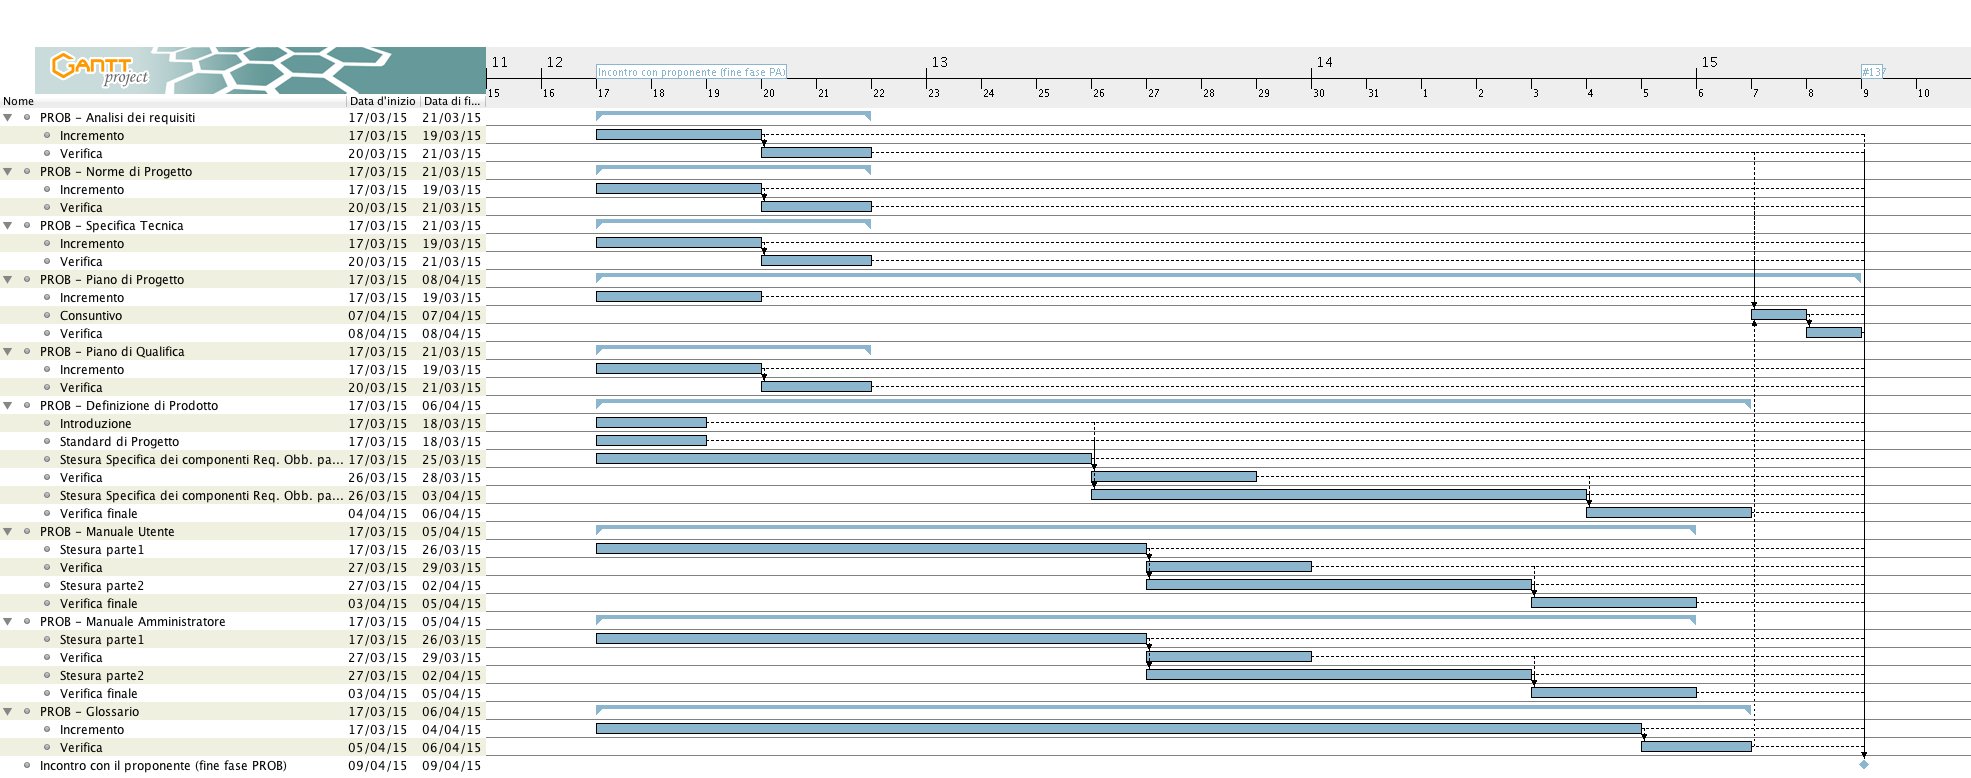
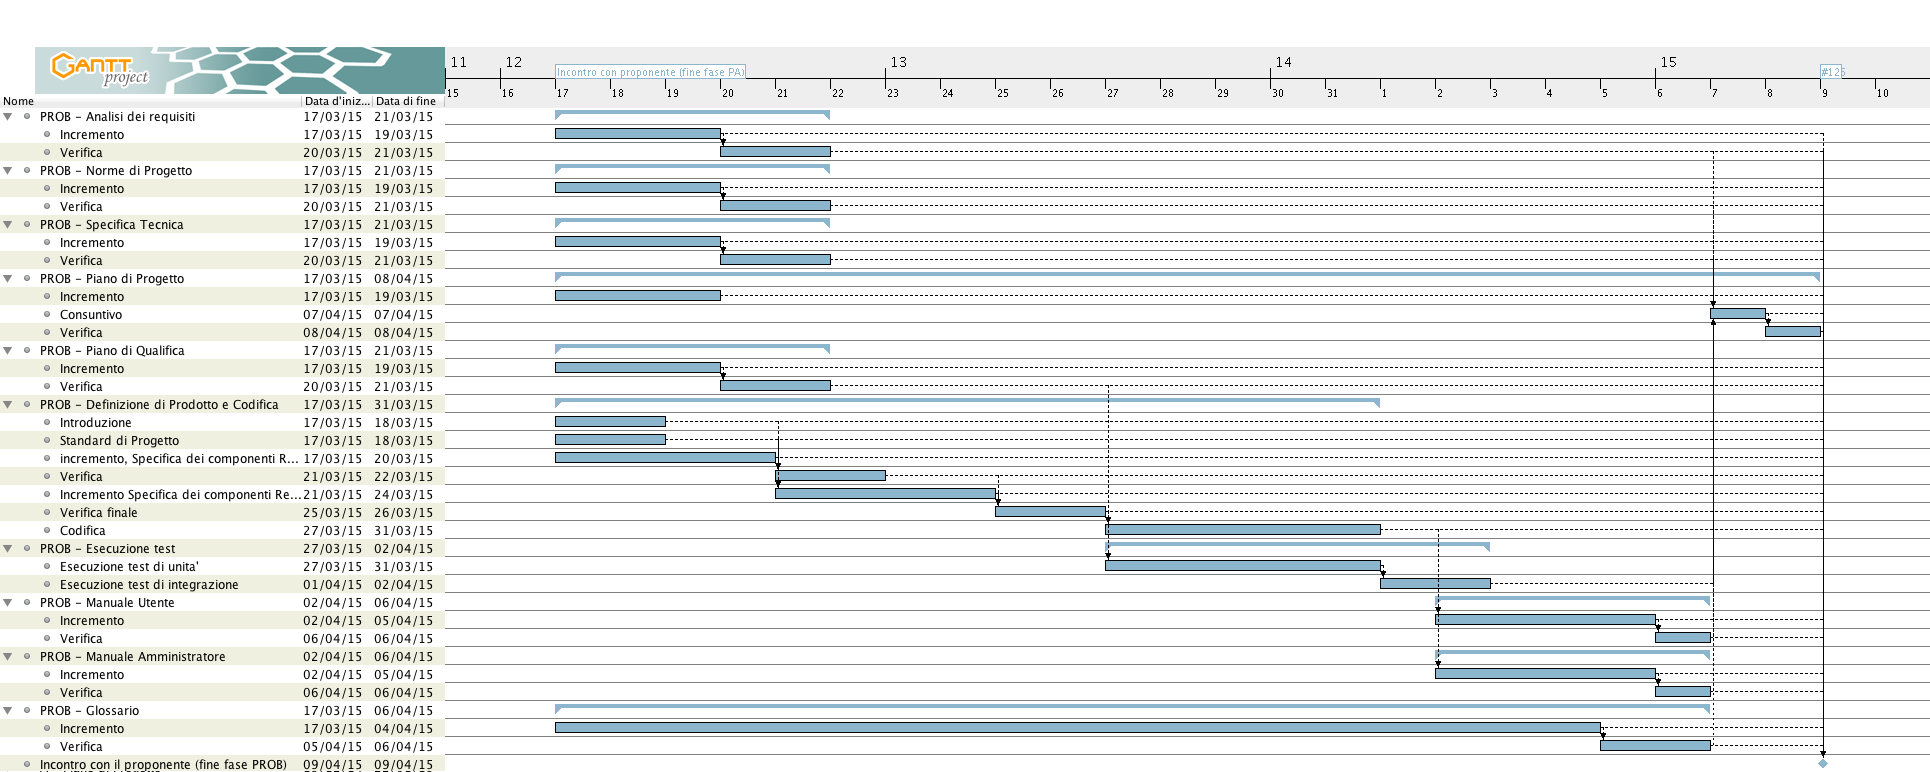
modifica fasi >= PROB

diff --git a/Documents/PianoDiProgetto/Tex/FasePRD.tex b/Documents/PianoDiProgetto/Tex/FasePRD.tex
@@ -4,7 +4,7 @@
 	\begin{itemize}
 		\item\textbf{Definizione di Prodotto}: Viene steso il documento \insdoc{Definizione di Prodotto v2.0}. Esso definisce la struttura interna del sistema e le relazioni dei componenti del prodotto relativi ai requisiti desiderabili.
 		\item \textbf{Codifica}: con quest'attività inizia lo sviluppo da parte dei programmatori dei requisiti desiderabili. Sarà dunque seguito quanto riportato nel documento \insfile{Definizione di Prodotto v2.0};
-		\item \textbf{Esecuzione test}: verranno eseguiti automaticamente tutti i test previsti dal documento \insdoc{Piano di Qualifica v 5.0};
+		\item \textbf{Esecuzione test}: verranno eseguiti automaticamente tutti i test di unità e integrazione previsti dal documento \insdoc{Piano di Qualifica v 5.0};
 		\item\textbf{Manuale Utente e Manuale Amministratore}: Comincia la stesura dei manuali che forniranno indicazioni agli utilizzatori del sistema.
 		\item\textbf{Incremento e Verifica Documenti}: Vengono eseguite modifiche ai documenti già scritti, se necessario.
 		\item\textbf{Glossario}: Vengono aggiunti al file \insfile{Glossario.xml} i vocaboli dei quali si ritiene necessaria una definizione formale. Alla fine di questa fase vieni quindi generato il documento \insdoc{Glossario v5.0}.

diff --git a/Documents/PianoDiProgetto/Tex/FasePROP.tex b/Documents/PianoDiProgetto/Tex/FasePROP.tex
@@ -5,7 +5,7 @@
 	\begin{itemize}
 		\item\textbf{Definizione Di Prodotto}: viene steso il documento \insdoc{Definizione di Prodotto v3.0}. Esso definisce la struttura interna del sistema e le relazioni dei componenti del prodotto relativi ai requisiti opzionali.
 		\item \textbf{Codifica}: con quest'attività inizia lo sviluppo da parte dei programmatori dei requisiti opzionali. Sarà dunque seguito quanto riportato nel documento \insfile{Definizione di Prodotto v3.0};
-		\item \textbf{Esecuzione test}: verranno eseguiti automaticamente tutti i test previsti dal documento \insdoc{Piano di Qualifica v 6.0};
+		\item \textbf{Esecuzione test}: verranno eseguiti automaticamente tutti i test di unità e integrazione previsti dal documento \insdoc{Piano di Qualifica v 6.0};
 		\item\textbf{Manuale Utente e Manuale Amministratore}: comincia la stesura dei manuali che forniranno indicazioni agli utilizzatori del sistema.
 		\item\textbf{Incremento e Verifica Documenti}: vengono eseguite modifiche ai documenti già scritti, se necessario.
 		\item\textbf{Glossario}: vengono aggiunti al file \insfile{Glossario.xml} i vocaboli dei quali si ritiene necessaria una definizione formale. Alla fine di questa fase vieni quindi generato il documento \insdoc{Glossario v6.0}.

diff --git a/Documents/PianoDiProgetto/Tex/FasePROB.tex b/Documents/PianoDiProgetto/Tex/FasePROB.tex
@@ -4,7 +4,7 @@
 	\begin{itemize}
 		\item\textbf{Definizione Di Prodotto}: Viene steso il documento \insdoc{Definizione di Prodotto v1.0}. Esso definisce la struttura interna del sistema e le relazioni dei componenti del prodotto relativi ai requisiti obbligatori.
 		\item \textbf{Codifica}: con quest'attività inizia lo sviluppo da parte dei programmatori dei requisiti obbligatori. Sarà dunque seguito quanto riportato nel documento \insfile{Definizione di Prodotto v1.0};
-		\item \textbf{Esecuzione test}: verranno eseguiti automaticamente tutti i test previsti dal documento \insdoc{Piano di Qualifica v 4.0};
+		\item \textbf{Esecuzione test}: verranno eseguiti automaticamente tutti i test di unità previsti dal documento \insdoc{Piano di Qualifica v 4.0};
 		\item\textbf{Manuale Utente e Manuale Amministratore}: Comincia la stesura dei manuali che forniranno indicazioni agli utilizzatori del sistema.
 		\item\textbf{Incremento e Verifica Documenti}: Vengono eseguite modifiche ai documenti già scritti, se necessario.
 		\item\textbf{Glossario}: Vengono aggiunti al file \insfile{Glossario.xml} i vocaboli dei quali si ritiene necessaria una definizione formale. Alla fine di questa fase vieni quindi generato il documento \insdoc{Glossario v4.0}.

diff --git a/Documents/PianoDiProgetto/Tex/FaseV.tex b/Documents/PianoDiProgetto/Tex/FaseV.tex
@@ -4,6 +4,8 @@
 	\begin{itemize}
 		\item \textbf{Incremento e Verifica}: se necessario verranno effettuati aggiornamenti ai vari documenti scritti;
 		\item \textbf{Validazione}: viene verificato, attraverso tracciamento, di aver soddisfatto i requisiti presenti nel documento \insdoc{Analisi dei Requisiti v1.0};
+		\item \textbf{Esecuzione test}: verranno eseguiti i test di sistema previsti dal documento \insdoc{Piano di Qualifica v 7.0};
+;
 		\item \textbf{Correzione bug}: i bug rilevati verranno risolti;
 		\item \textbf{Collaudo}: viene eseguito e completamente collaudato il sistema creato.
 	\end{itemize}
